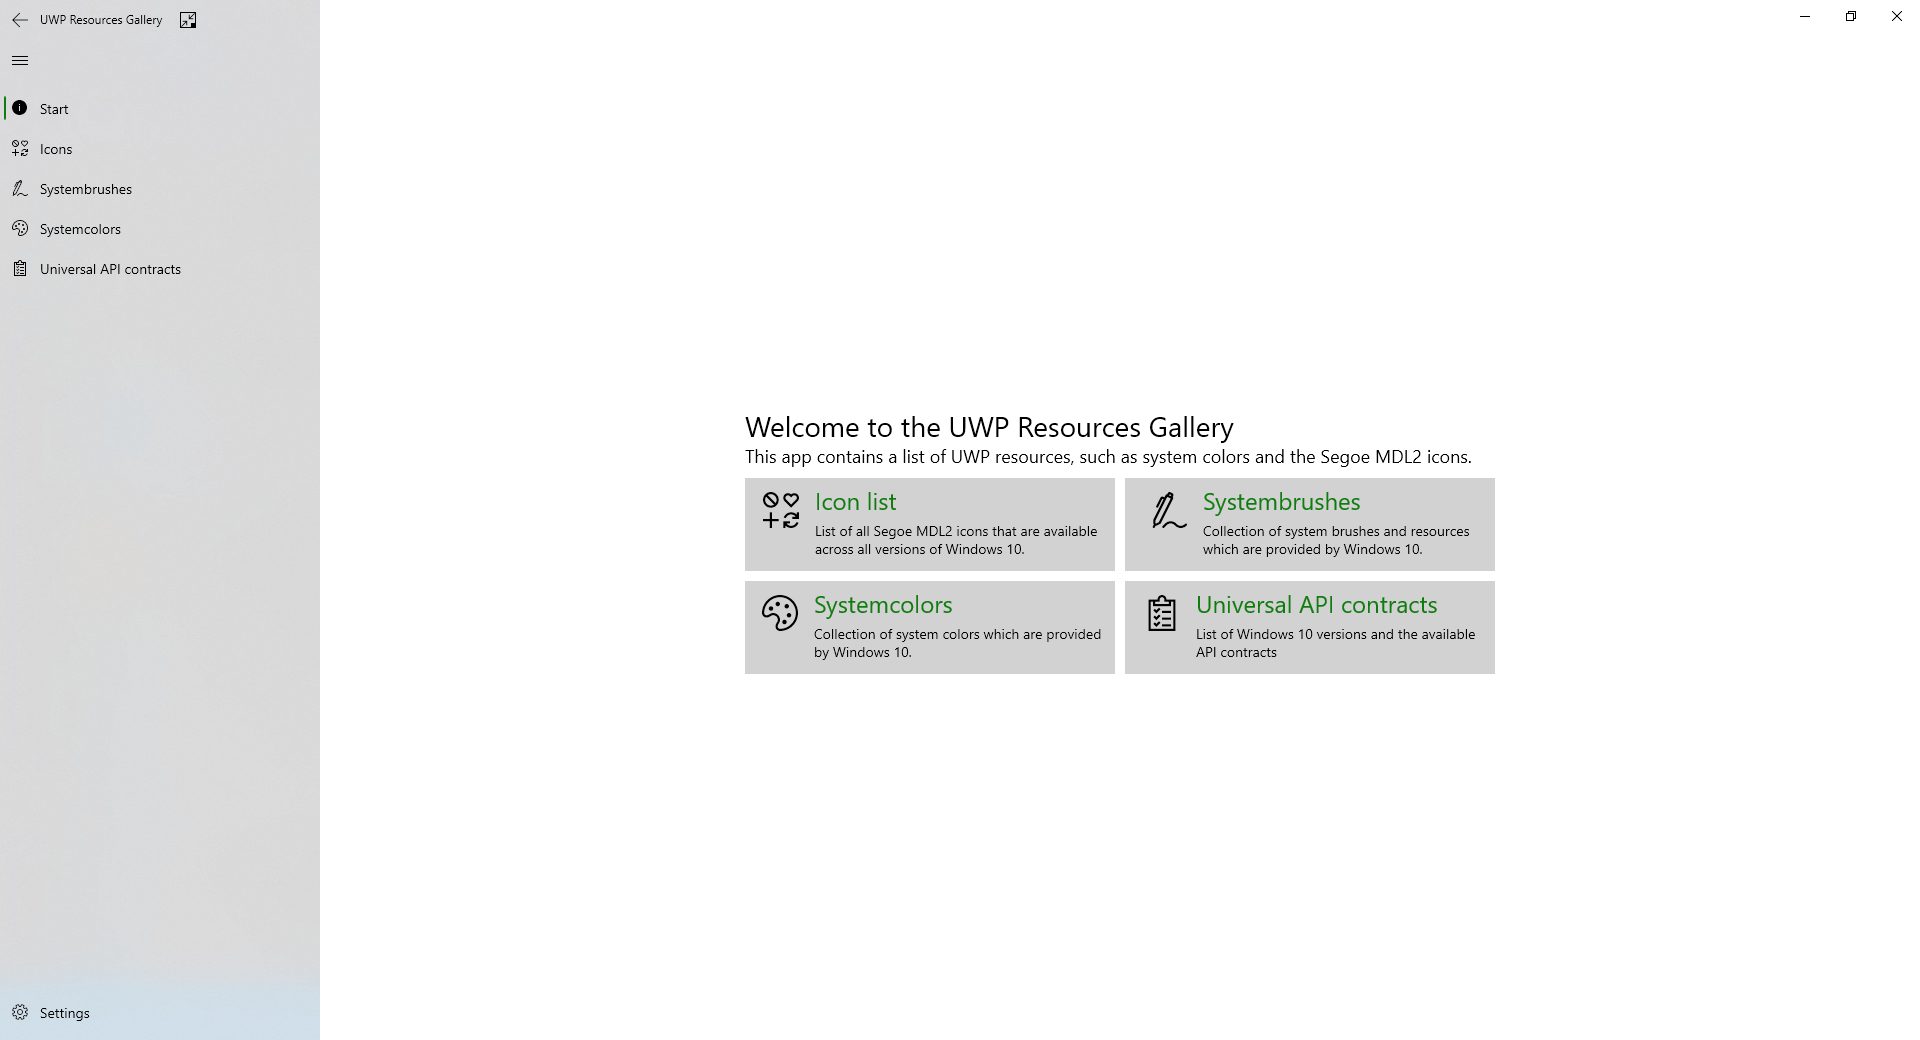
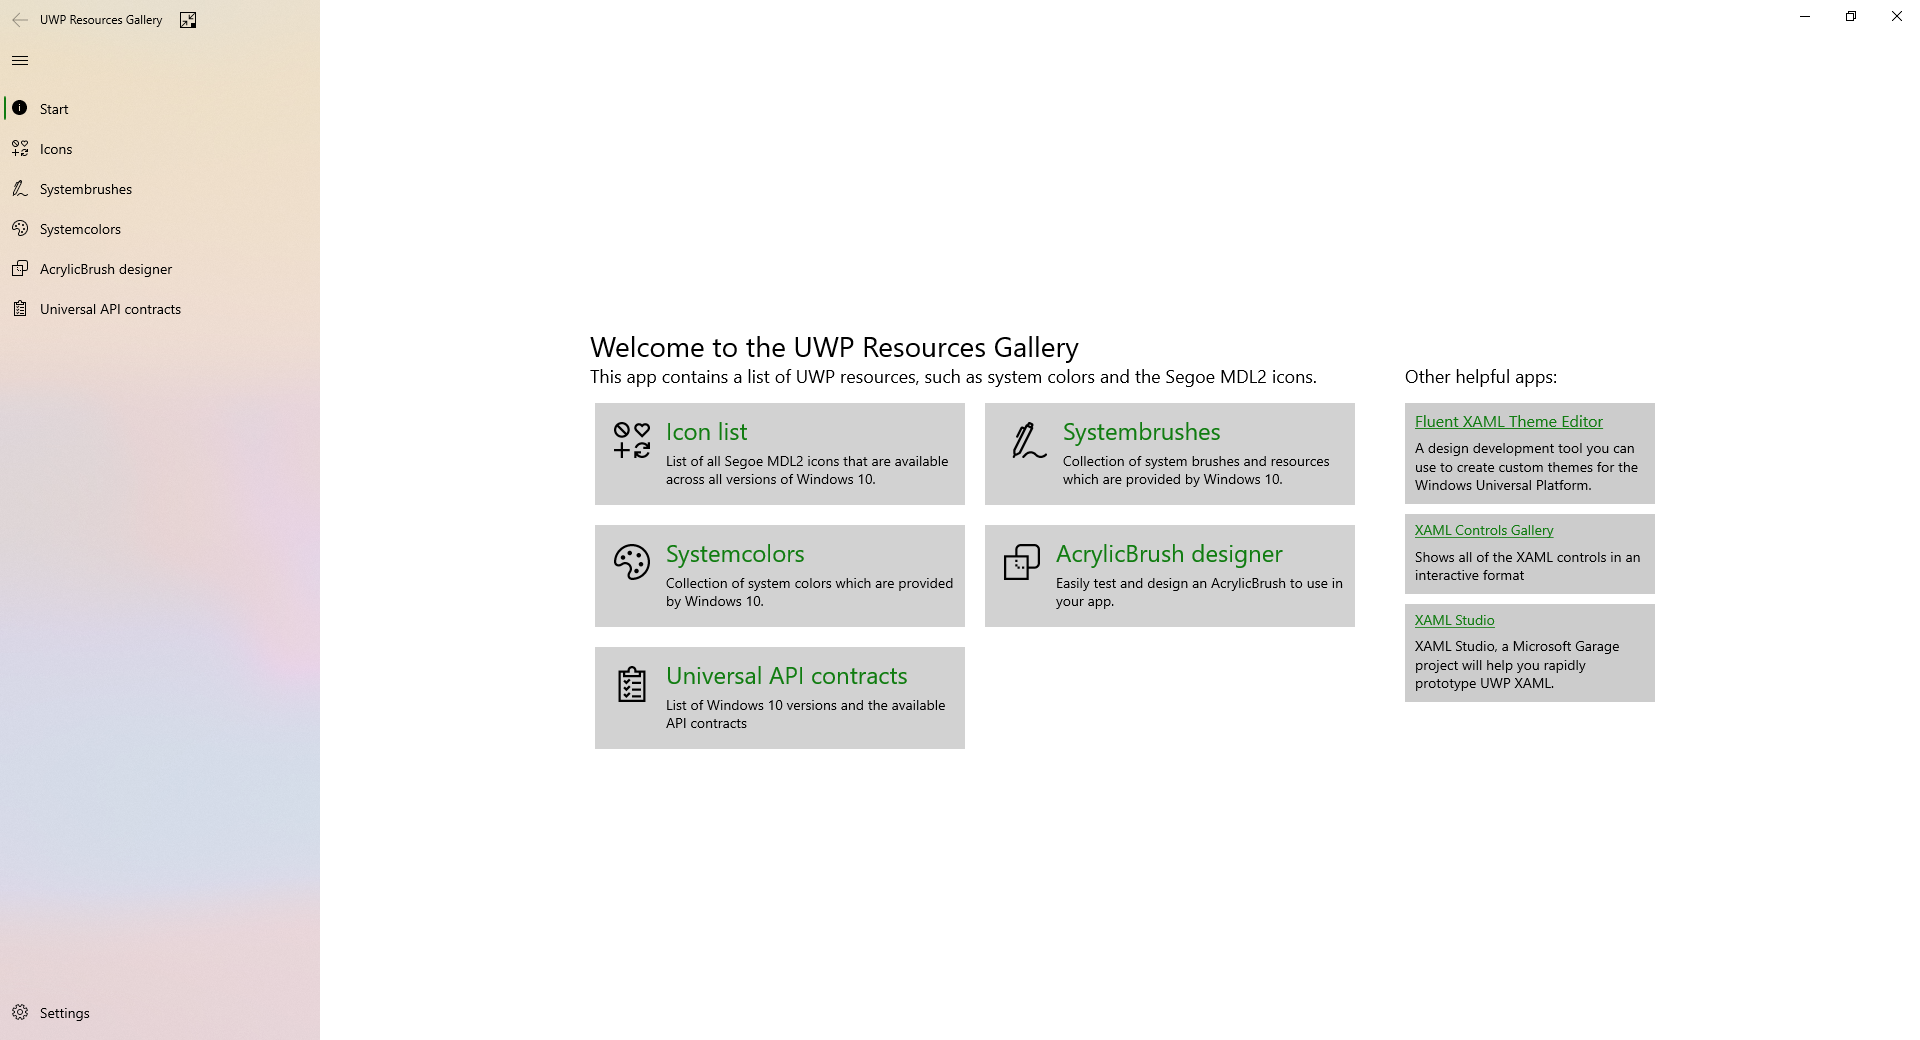
Update images

Changed region(s): [[0.3125, 0.3077, 0.875, 0.7385], [0.0, 0.2462, 0.0938, 0.3077]]

diff --git a/README.md b/README.md
@@ -32,6 +32,9 @@ To obtain information about Microsoft Visual Studio and the tools for developing
 ### Systemcolors page
 <img alt="Systemcolors of UWP Resources Gallery" src="./docs/Screenshot_Systemcolorspage.png" height="300">
 
+### Acrylicbrush Designer Page
+<img alt="Systemcolors of UWP Resources Gallery" src="./docs/Screenshot_Acrylicbrushdesignerpage.png" height="300">
+
 ### Universal API Contracts page
 <img alt="Universal API contracts page of UWP Resources Gallery" src="./docs/Screenshot_UniversalAPIContractsPage.png" height="300">
 
